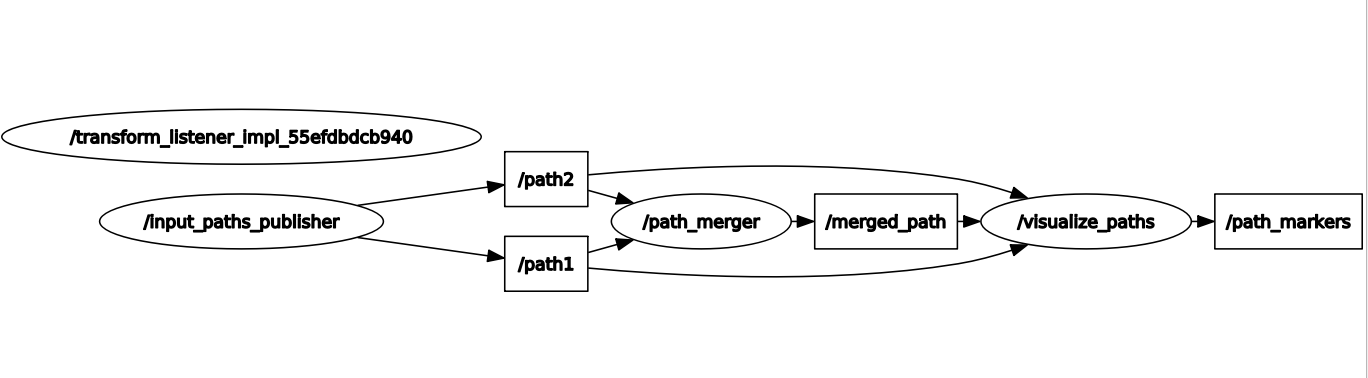
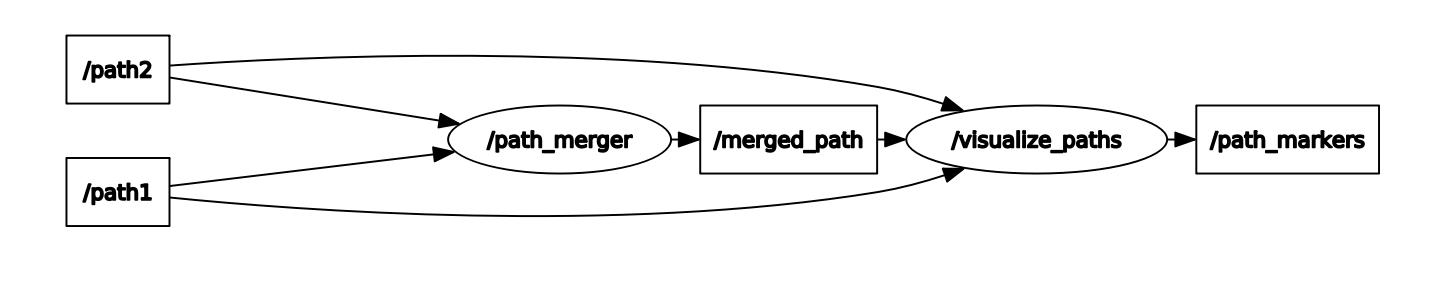
Added test illustrations to readme

diff --git a/README.md b/README.md
@@ -9,8 +9,8 @@ This repository contains a ROS 2 package that merges two distinct planned path u
 
 ## Nodes
 This package has of 4 nodes and the significance of each is given below, 
-1. *input_paths*: This node reads from a saved path data file of a test scenario to publish the paths as input to the `/path1` and `/path2` topics. The path information comprises of waypoints (array of *geometry_msgs/msg/Point*), header (*timestamp* and *frame_id*), and the *scenario* (name) it represents. When running this node, you have to set the ros parameter `test_scenario` to a number to select a test case. More instructions in regards to running the node is described in the Setup section.
-1. *merger_node*: This is the main node that subscribes the input paths from the topics `/path1` and `/path2`, performs merging operation, and publishes the resulting path to the `/merged_path` topic. This node remains active after the merging operation is completed and continues to receive new input paths for merging.
+1. *input_paths_publisher*: This node reads from a saved path data file of a test scenario to publish the paths as input to the `/path1` and `/path2` topics. The path information comprises of waypoints (array of [geometry_msgs/msg/Point](https://docs.ros2.org/latest/api/geometry_msgs/msg/Point.html)), header ([std_msgs/msg/Header](https://docs.ros2.org/latest/api/std_msgs/msg/Header.html)), and the scenario (*string*) it represents. When running this node, you have to set the ros parameter `test_scenario` to a number to select a test case. More instructions in regards to running the node is described in the Setup section.
+1. *path_merger*: This is the main node that subscribes the input paths from the topics `/path1` and `/path2`, performs merging operation, and publishes the resulting path to the `/merged_path` topic. This node remains active after the merging operation is completed and continues to receive new input paths for merging.
 1. *visualize_paths*: This is a node that is used for visualization of the input and merged paths. It subscribes to all the path topics, loads the corresponding visual markers with path information, and publishes it to be displayed in Rviz.
 1. *generate_paths*: This node is only used to generate the path data files for the test cases. The path data is stored in .csv format which contains the path waypoints. Note, this node does not play any role during the merging operation.
 
@@ -26,23 +26,74 @@ The input paths are assumed to be the planned path at two different time instanc
 
 As previously mentioned, the working principle of the merging algorithm implemented is weighted vector addition. Since the paths are comprised of discrete waypoints, we only consider two points (current and next index) of a path at every instance to perform the vector addition and iterate over all the points. A vector is nothing but the line (path) segment between the two points. The various vectors (components) involved are shown in the following figure.
 
-> The angle between the path 2 component and the resultant component is represented by *theta*. We maintain the previous and current values of *theta* at every iteration to compute the difference in *theta*.
+> The angle between the path 2 component and the resultant component is represented by $\theta$. We maintain the previous and current values of $\theta$ at every iteration to compute the difference in $\theta$.
 
 Here, path 1 component is the path segment between the current and next index of path 1, similar is the case for path 2 component. The differential compoment is the line segment that points to the next waypoint index of path 2 from the current index of the merged path. Think of it as a vector joining the next index of path 2 and the current index of merged path. Finally, the inertial component is the path segment between the previous and current waypoint index of the merged path. The resultant component is computed by evaluating the following expression,
 
-![weightedSum](media/weightedSum.png)
+```math
+[\texttt{Resultant}] = \bar{\alpha} . [\texttt{Path 1}] \; + \; (1 - \bar{\alpha}) . [\texttt{Path 2}] \; + \; \bar{\rho} . [\texttt{Inertial}] \; + \; \bar{\delta} . [\texttt{Differential}]
+```
 
-> Note, the bar over the weights indicate that they are normalized such that the summation of all weights equal to 1.
+> Note, the bar over the weights indicate that they are normalized such that the summation of all weights equal to 1. Thereby, conserving the magnitude of the resultant component.
 
-The idea is to gradually decrease *alpha*, corresponding to the influence of path 1 component, to zero starting from 1 while keeping *rho* and *delta* as constants. Thereby, decereasing *alpha* increases (1-*alpha*) that corresponds to gradually increasing the influence of path 2 component in the resultant. The inertial component prevents the resultant from making drastic changes. Lastly, the differential component nudges the resultant towards the path 2 and ensures that the merged path concides with the path 2 (new path). The decrement of *alpha* at every iteration is given by the following expression,
+The idea is to gradually decrease $\alpha$, corresponding to the influence of path 1 component, to zero starting from 1 while keeping $\rho$ and $\delta$ as constants. Thereby, decereasing $\alpha$ increases (1-$\alpha$) that corresponds to gradually increasing the influence of path 2 component in the resultant. The inertial component prevents the resultant from making drastic changes. Lastly, the differential component nudges the resultant towards the path 2 and ensures that the merged path concides with the path 2 (new path). The decrement of $\alpha$ at every iteration is given by the following expression,
 
-![alphaUpdate](media/alphaUpdate.png) 
+$$\begin{align*} \alpha^+ &= \alpha - \beta - \gamma \\ \gamma &\propto \theta_{curr} - \theta_{prev} \end{align*}$$
 
-Here, *beta* is a constant parameter iteratively decreasing *alpha* by a fixed amount while *gamma* is positive (thus decreasing *alpha*) if the resultant is diverging and negative (thus increasing *alpha*) is converging to the path 2 component.
+Here, $\beta$ is a constant parameter iteratively decreasing $\alpha$ by a fixed amount while $\gamma$ is positive (thus decreasing $\alpha$) if the resultant is diverging and negative (thus increasing $\alpha$) is converging to the path 2 component.
 
-> *gamma* is analogous to the derivative part of a PID controller, thus improves the transient behavior of the resultant and outputs a smoother merged path.
+> $\gamma$ is analogous to the derivative part of a PID controller, thus improves the transient behavior of the resultant and outputs a smoother merged path.
 
 ## Test Scenarios
+Below are the illustrations of the test scenarios as viewed in Rviz, where path 1 and 2 are represented in red and green respectively and the merged path is represented in blue. One can control which path data (continuous line and discrete waypoints) to display in the output by toggling corresponding markers under *Namespaces* of the topic `/path_markers`.
+
+**Scenario 1: Lane Change**
+
+In this test case, we see the old path (path 1 in red) plans to follow the current lane, whereas the new path (path 2 in green) plans to make a lane change. We also notice that the new path doesn't exactly start from a known waypoint in the old path, rather slightly off. However, the algorithm outputs a merged path (blue) that makes a smooth transition between the input paths.
+
+![input1](media/scenario1Input.png) ![output1](media/scenario1Output.png)
+
+> The figure in the left displays only the input paths with the merged path markers toggled off and the figure in the right also shows the resulting merged path computed by the algorithm.
+
+**Scenario 2: Right Turn**
+
+Similar to the previous case, we see path 1 (red) plans to follow the current lane, whereas path 2 (green) plans to turn right. For the merged path (blue), we observe that it overshoots slightly when making the right turn. This is due to the effect of inertia preventing to make sharp turns.
+
+![output2](media/scenario2Output.png)
+
+**Scenario 3: U-Turn**
+
+Similar to the previous case, path 1 (red) follows the current lane, whereas path 2 (green) takes a U-turn from right. Although the merged path (blue) has a greater overshoot at the turn than scenario 2, we stil see it converging with path 2 near the end. This is due to the effect of the differential component making sure there is no steady-state error.
+
+![output3](media/scenario3Output.png)
+
+**Scenario 4: Quick Overtake**
+
+Here, path 1 (red) still follows the same lane but path 2 (green) makes an overtake, where in the process it momentarily changes the lane and quickly returns back to the original lane. This is an interesting test scenario as path 2 makes sudden maneuvers and we can see how the merged path (blue) finds a compromise between smooth transitioning and closesness to path 2.
+
+![output4](media/scenario4Output.png)
+
+**Scenario 5: Stop Sign**
+
+In this case, path 1 (red) plans to make a stop in the same lane whereas path 2 (green) plans to make a right turn. The figure below also displays the path waypoints to clearly show path 1's plan to stop.
+
+![output5](media/scenario5Output.png)
+
+**Scenario 6: Two Turns**
+
+Unlike the previous test cases, path 1 (red) plans to make a left turn and path 2 (green) plans to make a right turn. From this output, we see that once the merged path (blue) has nearly transitioned to path 2, the nature of path 1 doesn't have any influence over it. Therefore, the merged path places great importance to path 1 waypoints before the transition point and gradually shifts it to the path 2 waypoints with time.
+
+![output6](media/scenario6Output.png)
+
+**Scenario 7: Failed Continuity**
+
+In this test case, the waypoint data of the input paths was manually tampered such that it is no longer continuous in nature, which is one of the requirements of the input paths. Therefore, when we run this test scenario, we see an error log in the terminal running the merger node indicating the problem. If either of the input paths fail any of the validity checks, they are rejected and merger node continues to wait for new and valid input paths to merge.
+
+**Scenario 8: Lost Track**
+
+This is an unlikely situation, where the starting point of path 2 (green) is already in a different lane than path 1 (red). For such cases, we skip the merging operation and simply consider the new path (path 2) as the merged path.
+
+> Very rarely, the visualizer node doesn't display the merged path in Rviz although the path merger node has published it successfully. In such a case, either relaunch the merger and visualizer nodes or provide a different test scenario only to change it back to the original scenario.
 
 ## Setup
 
